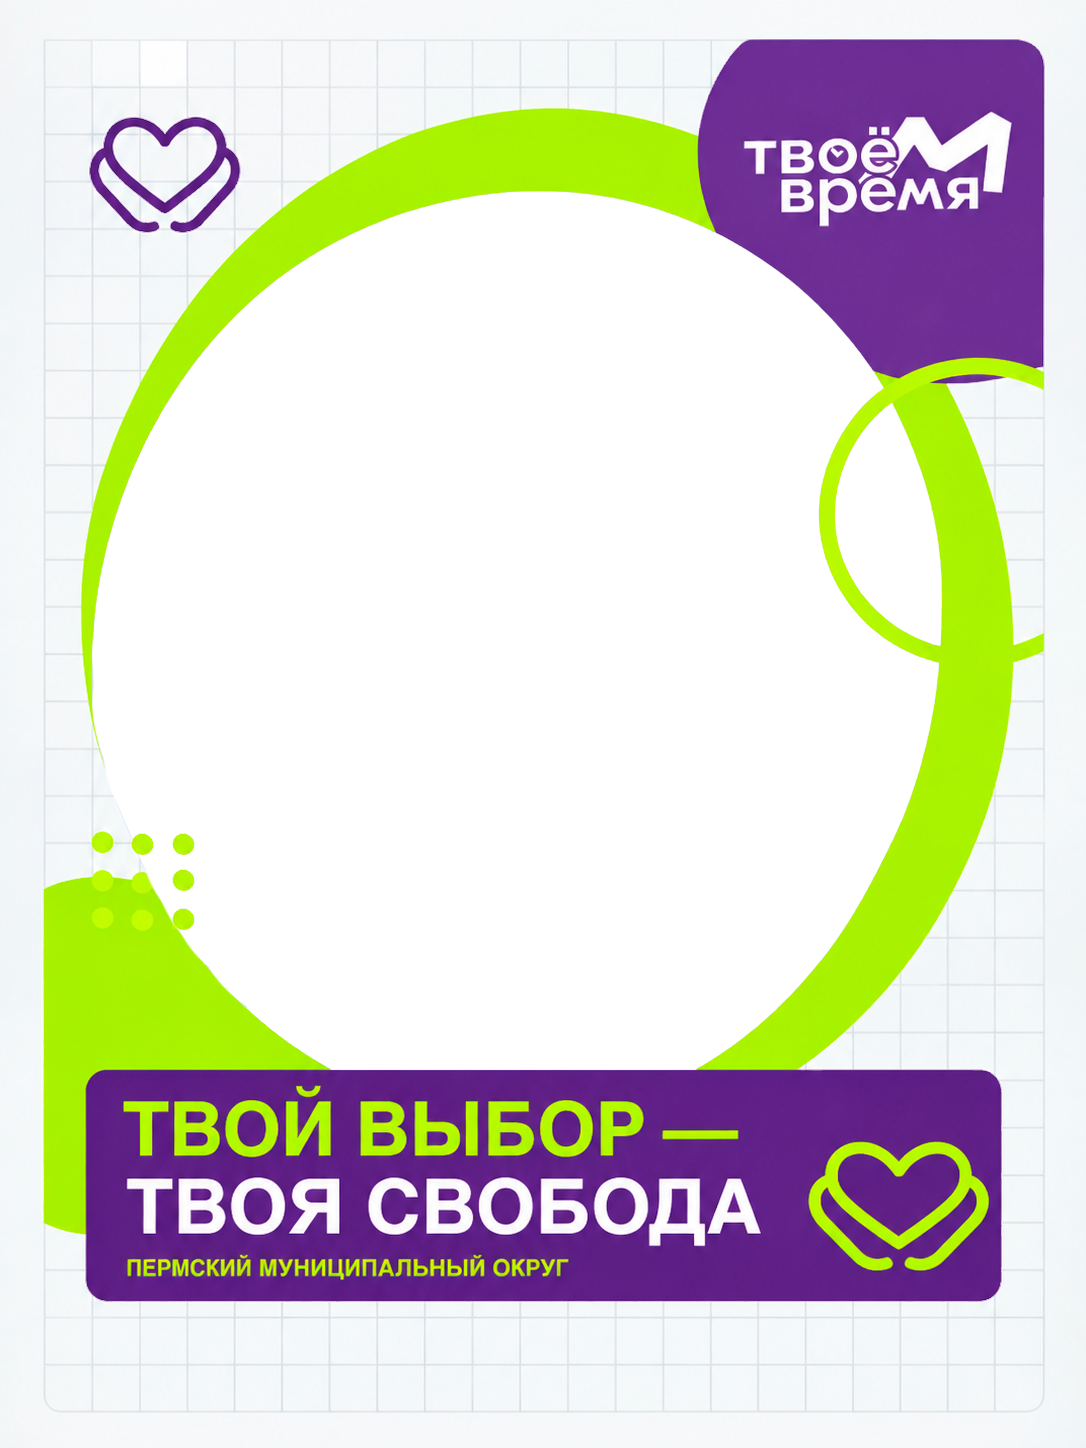
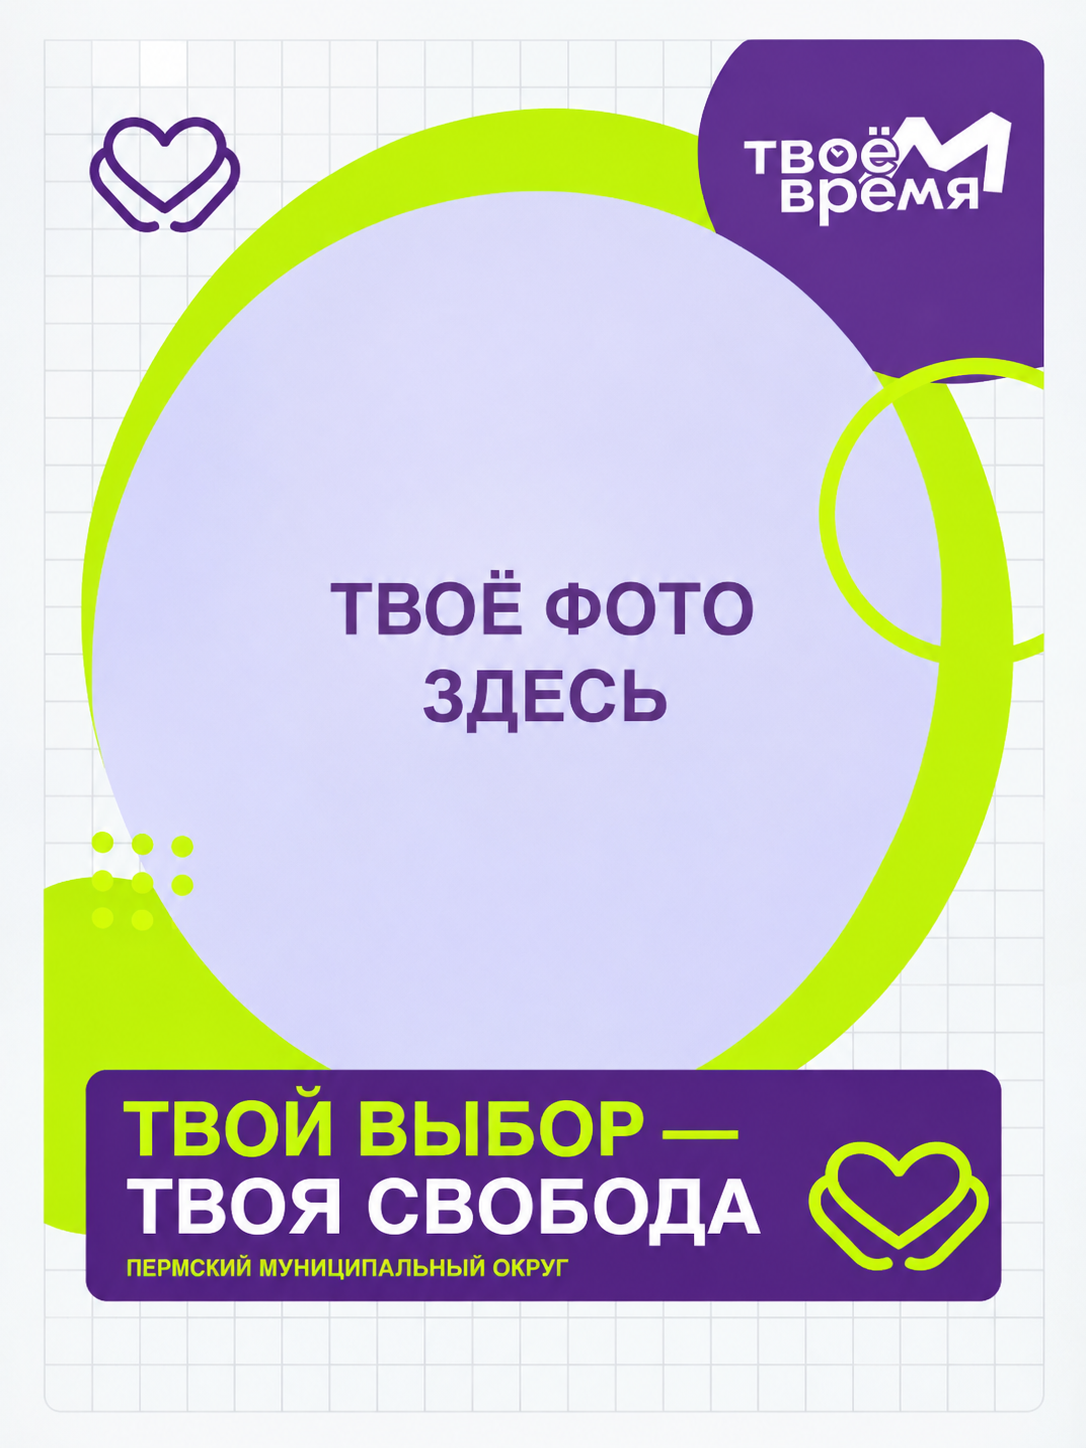
Add files via upload

diff --git a/index.html b/index.html
@@ -1,7 +1,36 @@
 <!doctype html><html lang="ru"><head><meta charset="utf-8"><meta name="viewport" content="width=device-width,initial-scale=1"><title>Твой выбор — твоя свобода | Твоё время</title><style>body{margin:0;background:#f8f7fc;color:#4c2883;font:600 16px system-ui,Arial;text-align:center}main{max-width:540px;margin:auto;padding:20px 12px 50px}h1{font-size:24px;margin:12px 0 18px}.pick,.download{display:inline-block;border:0;border-radius:16px;padding:15px 24px;font:800 18px system-ui;cursor:pointer}.pick{background:#c7ff00;color:#4c2883}.download{background:#542b87;color:white;margin-top:14px}input[type=file]{display:none}canvas{width:100%;height:auto;display:block;border-radius:14px;box-shadow:0 8px 28px #3e226022;touch-action:none}section{margin:20px 0 12px}label{display:block;margin:16px 0 8px}input[type=range]{width:85%;accent-color:#643392}.hint{font-size:13px;font-weight:400;color:#6e6381;margin-top:12px}</style></head><body><main><h1>ТВОЙ ВЫБОР — ТВОЯ СВОБОДА</h1><label class="pick" for="file">📷 Выбрать фото</label><input id="file" type="file" accept="image/*"><section><canvas id="card" width="1086" height="1448" aria-label="Предпросмотр карточки"></canvas></section><label for="scale">Масштаб фотографии</label><input id="scale" type="range" min="1" max="3" step="0.01" value="1"><div><button class="download" id="save">↓ Скачать фото PNG</button></div><p class="hint">Перемещай фотографию пальцем или мышкой. Фото обрабатывается только на твоём устройстве.</p></main><script>
 const canvas=document.getElementById('card'),ctx=canvas.getContext('2d'),file=document.getElementById('file'),scale=document.getElementById('scale');const W=1086,H=1448;let photo=null,zoom=1,dx=0,dy=0,drag=false,prev=null;const template=new Image();template.src='template.png';let topLayer=null;
-template.onload=()=>{const tmp=document.createElement('canvas');tmp.width=W;tmp.height=H;const t=tmp.getContext('2d');t.drawImage(template,0,0);let pix=t.getImageData(0,0,W,H);let a=pix.data;for(let y=0;y<H;y++)for(let x=0;x<W;x++){const i=(y*W+x)*4,r=a[i],g=a[i+1],b=a[i+2];const lime=(g>125&&g>r*1.22&&g>b*1.35);const preserve=(y>=1010)||(x>670&&y<410);const heart=(x<280&&y<280);const dots=(x<270&&y>740&&y<970);a[i+3]=(lime||preserve||heart||dots)?255:0;}t.putImageData(pix,0,0);topLayer=tmp;render();};
-function render(){ctx.clearRect(0,0,W,H);if(!template.complete||!template.naturalWidth)return;ctx.drawImage(template,0,0,W,H);if(photo){ctx.save();ctx.beginPath();ctx.ellipse(504,632,408,455,0,0,Math.PI*2);ctx.clip();const base=Math.max(816/photo.width,910/photo.height),s=base*zoom;const ww=photo.width*s,hh=photo.height*s;ctx.drawImage(photo,504-ww/2+dx,632-hh/2+dy,ww,hh);ctx.restore();if(topLayer)ctx.drawImage(topLayer,0,0);} }
+template.onload=()=>{
+  // Keep the entire design except the photo window. No rectangular masks.
+  const overlay=document.createElement('canvas');overlay.width=W;overlay.height=H;
+  const o=overlay.getContext('2d');o.drawImage(template,0,0,W,H);
+  const pixels=o.getImageData(0,0,W,H),d=pixels.data;
+  const cx=504,cy=632,rx=408,ry=455;
+  for(let y=0;y<H;y++)for(let x=0;x<W;x++){
+    const normalized=((x-cx)/rx)**2+((y-cy)/ry)**2;
+    if(normalized>=1)continue;
+    const i=(y*W+x)*4,r=d[i],g=d[i+1],b=d[i+2];
+    // Only keep lime decorative strokes inside the photo window.
+    // Never keep rectangular areas: those caused the black triangles.
+    const lime=g>135 && g>r*1.38 && g>b*1.30;
+    d[i+3]=lime?255:0;
+  }
+  o.putImageData(pixels,0,0);topLayer=overlay;render();
+};
+function render(){
+  ctx.clearRect(0,0,W,H);
+  if(!template.complete||!template.naturalWidth)return;
+  ctx.drawImage(template,0,0,W,H);
+  if(photo){
+    ctx.save();ctx.beginPath();ctx.ellipse(504,632,408,455,0,0,Math.PI*2);ctx.clip();
+    const base=Math.max(816/photo.width,910/photo.height),s=base*zoom;
+    const ww=photo.width*s,hh=photo.height*s;
+    ctx.drawImage(photo,504-ww/2+dx,632-hh/2+dy,ww,hh);
+    ctx.restore();
+    if(topLayer)ctx.drawImage(topLayer,0,0);
+  }
+}
+
 file.onchange=()=>{const f=file.files[0];if(!f)return;const u=URL.createObjectURL(f);const im=new Image();im.onload=()=>{photo=im;zoom=1;dx=dy=0;scale.value=1;render();URL.revokeObjectURL(u)};im.src=u;};scale.oninput=()=>{zoom=+scale.value;render()};
 function pos(e){const b=canvas.getBoundingClientRect();return{x:(e.clientX-b.left)*W/b.width,y:(e.clientY-b.top)*H/b.height}}canvas.addEventListener('pointerdown',e=>{if(!photo)return;drag=true;prev=pos(e);canvas.setPointerCapture(e.pointerId)});canvas.addEventListener('pointermove',e=>{if(!drag)return;const p=pos(e);dx+=p.x-prev.x;dy+=p.y-prev.y;prev=p;render()});for(const n of ['pointerup','pointercancel'])canvas.addEventListener(n,()=>drag=false);
 document.getElementById('save').onclick=()=>{if(!photo){alert('Сначала выбери фотографию');return}render();canvas.toBlob(blob=>{if(!blob)return;const url=URL.createObjectURL(blob),a=document.createElement('a');a.href=url;a.download='tvoy-vybor-tvoya-svoboda.png';a.click();setTimeout(()=>URL.revokeObjectURL(url),1500)},'image/png')};
